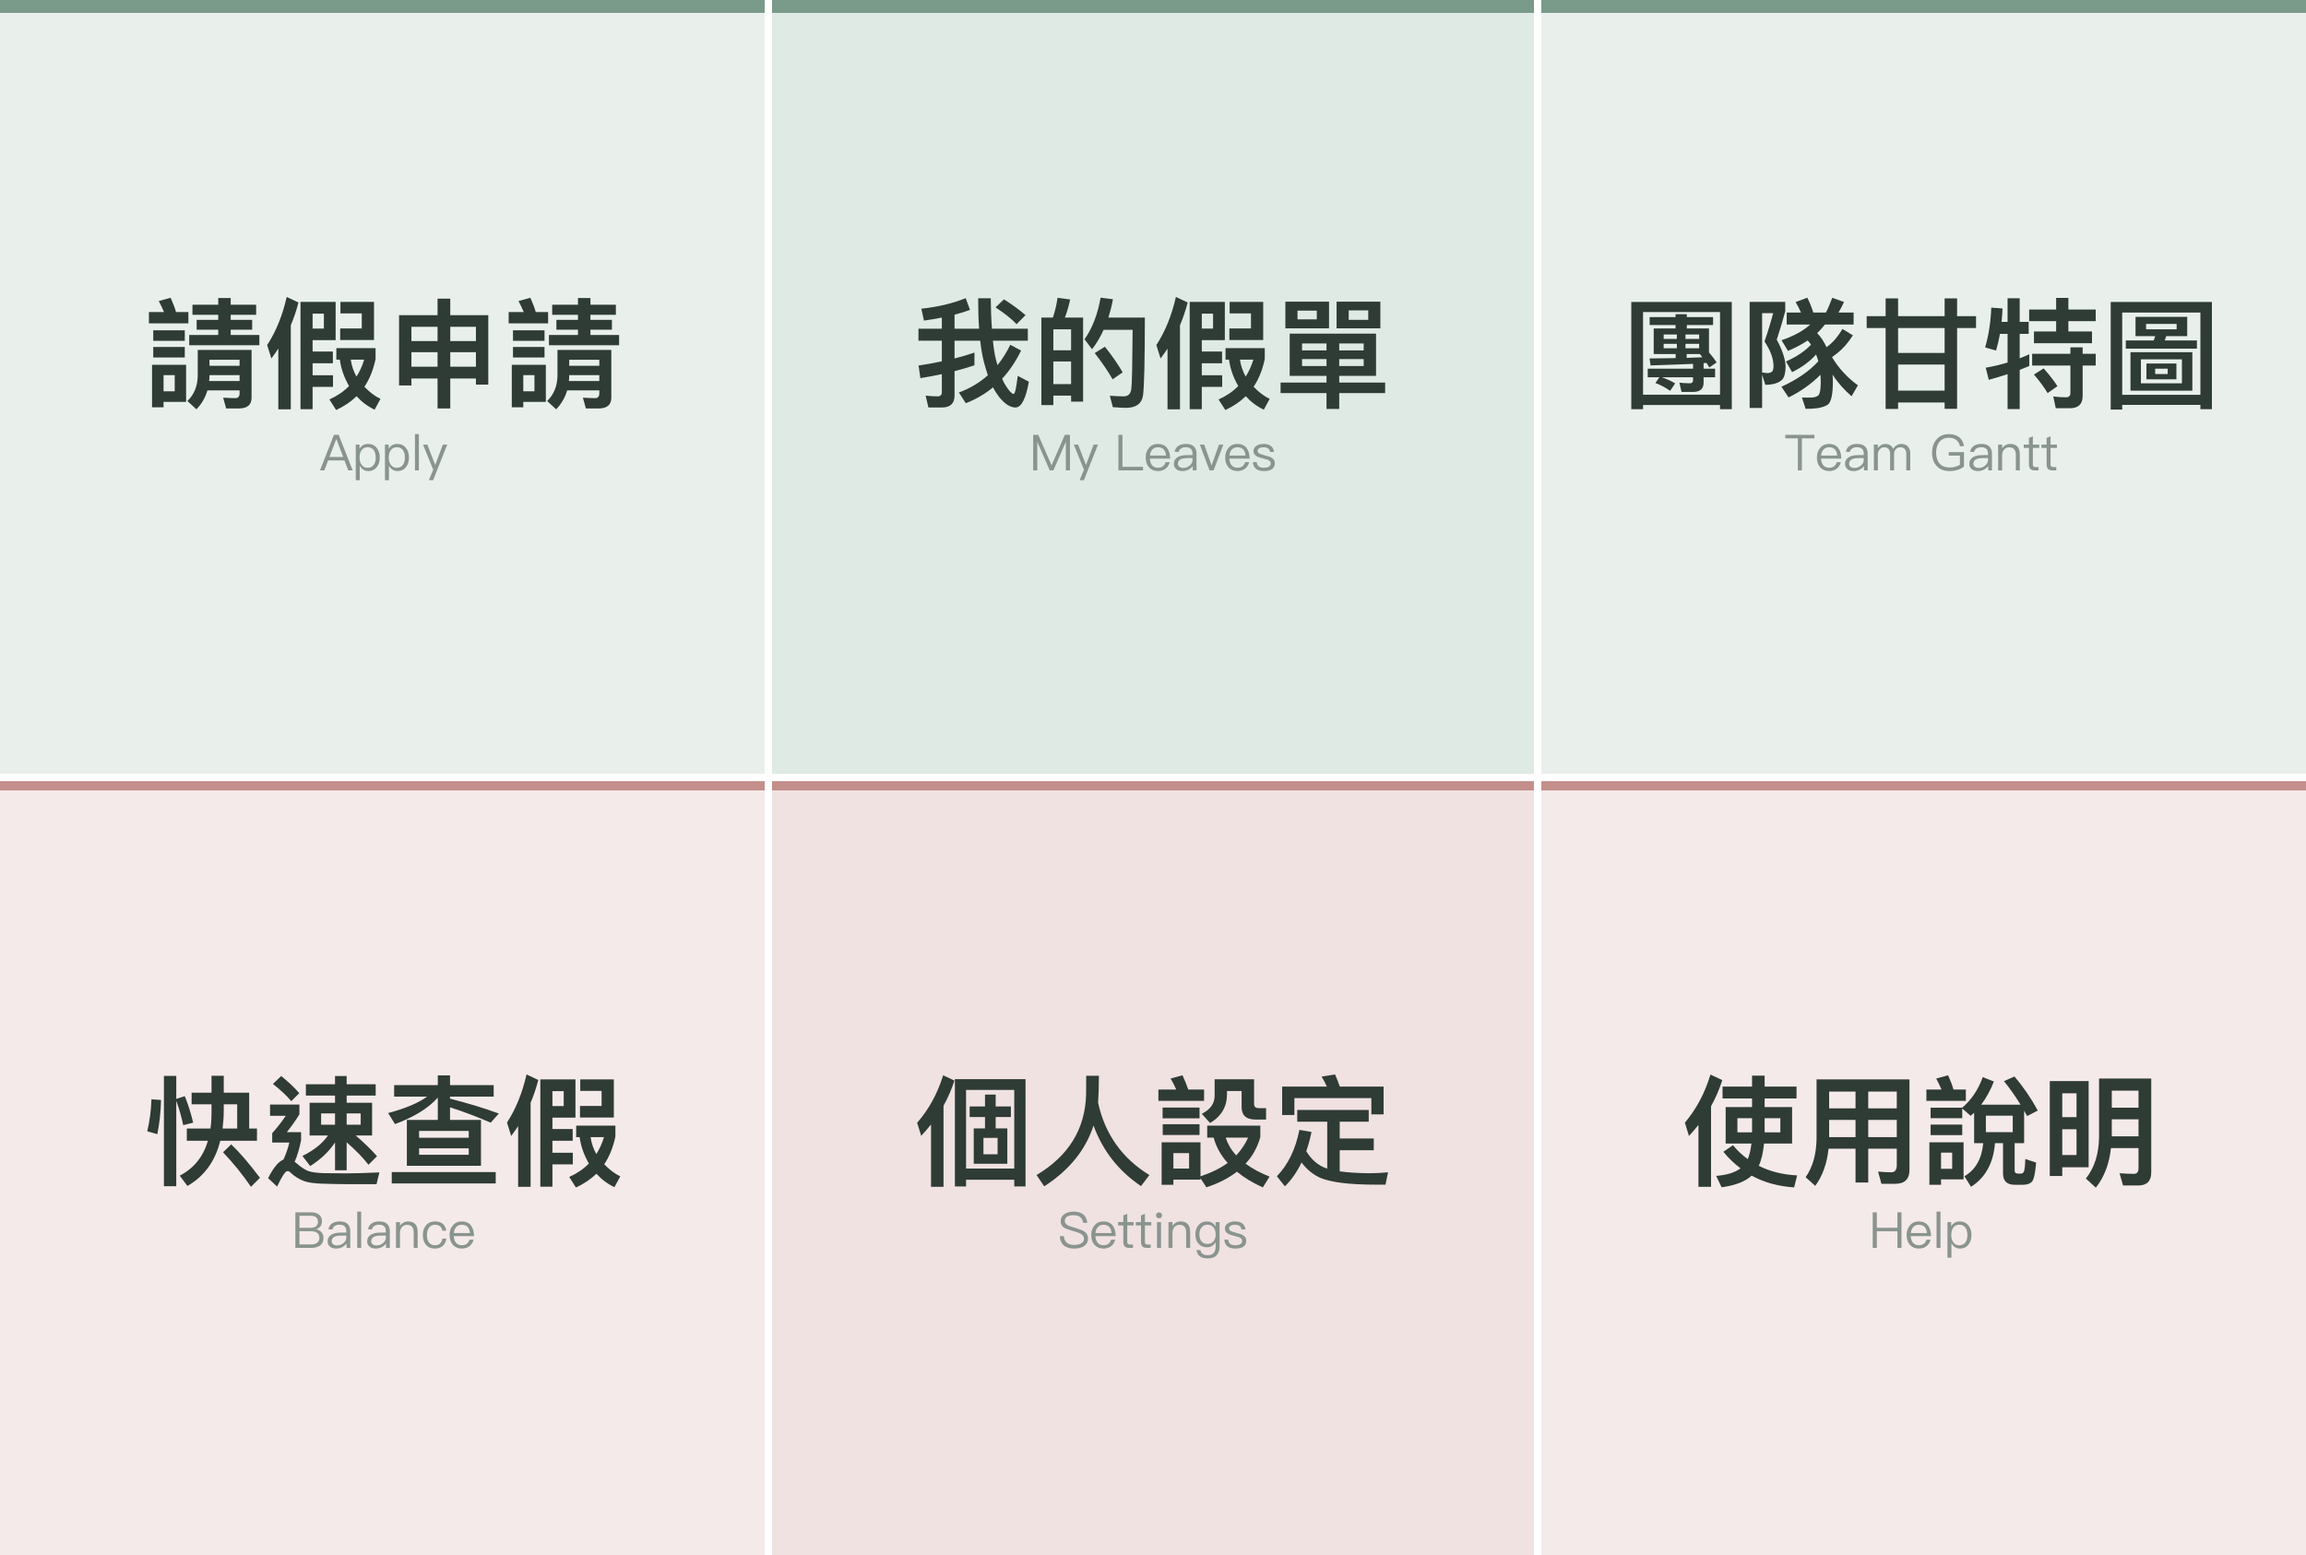
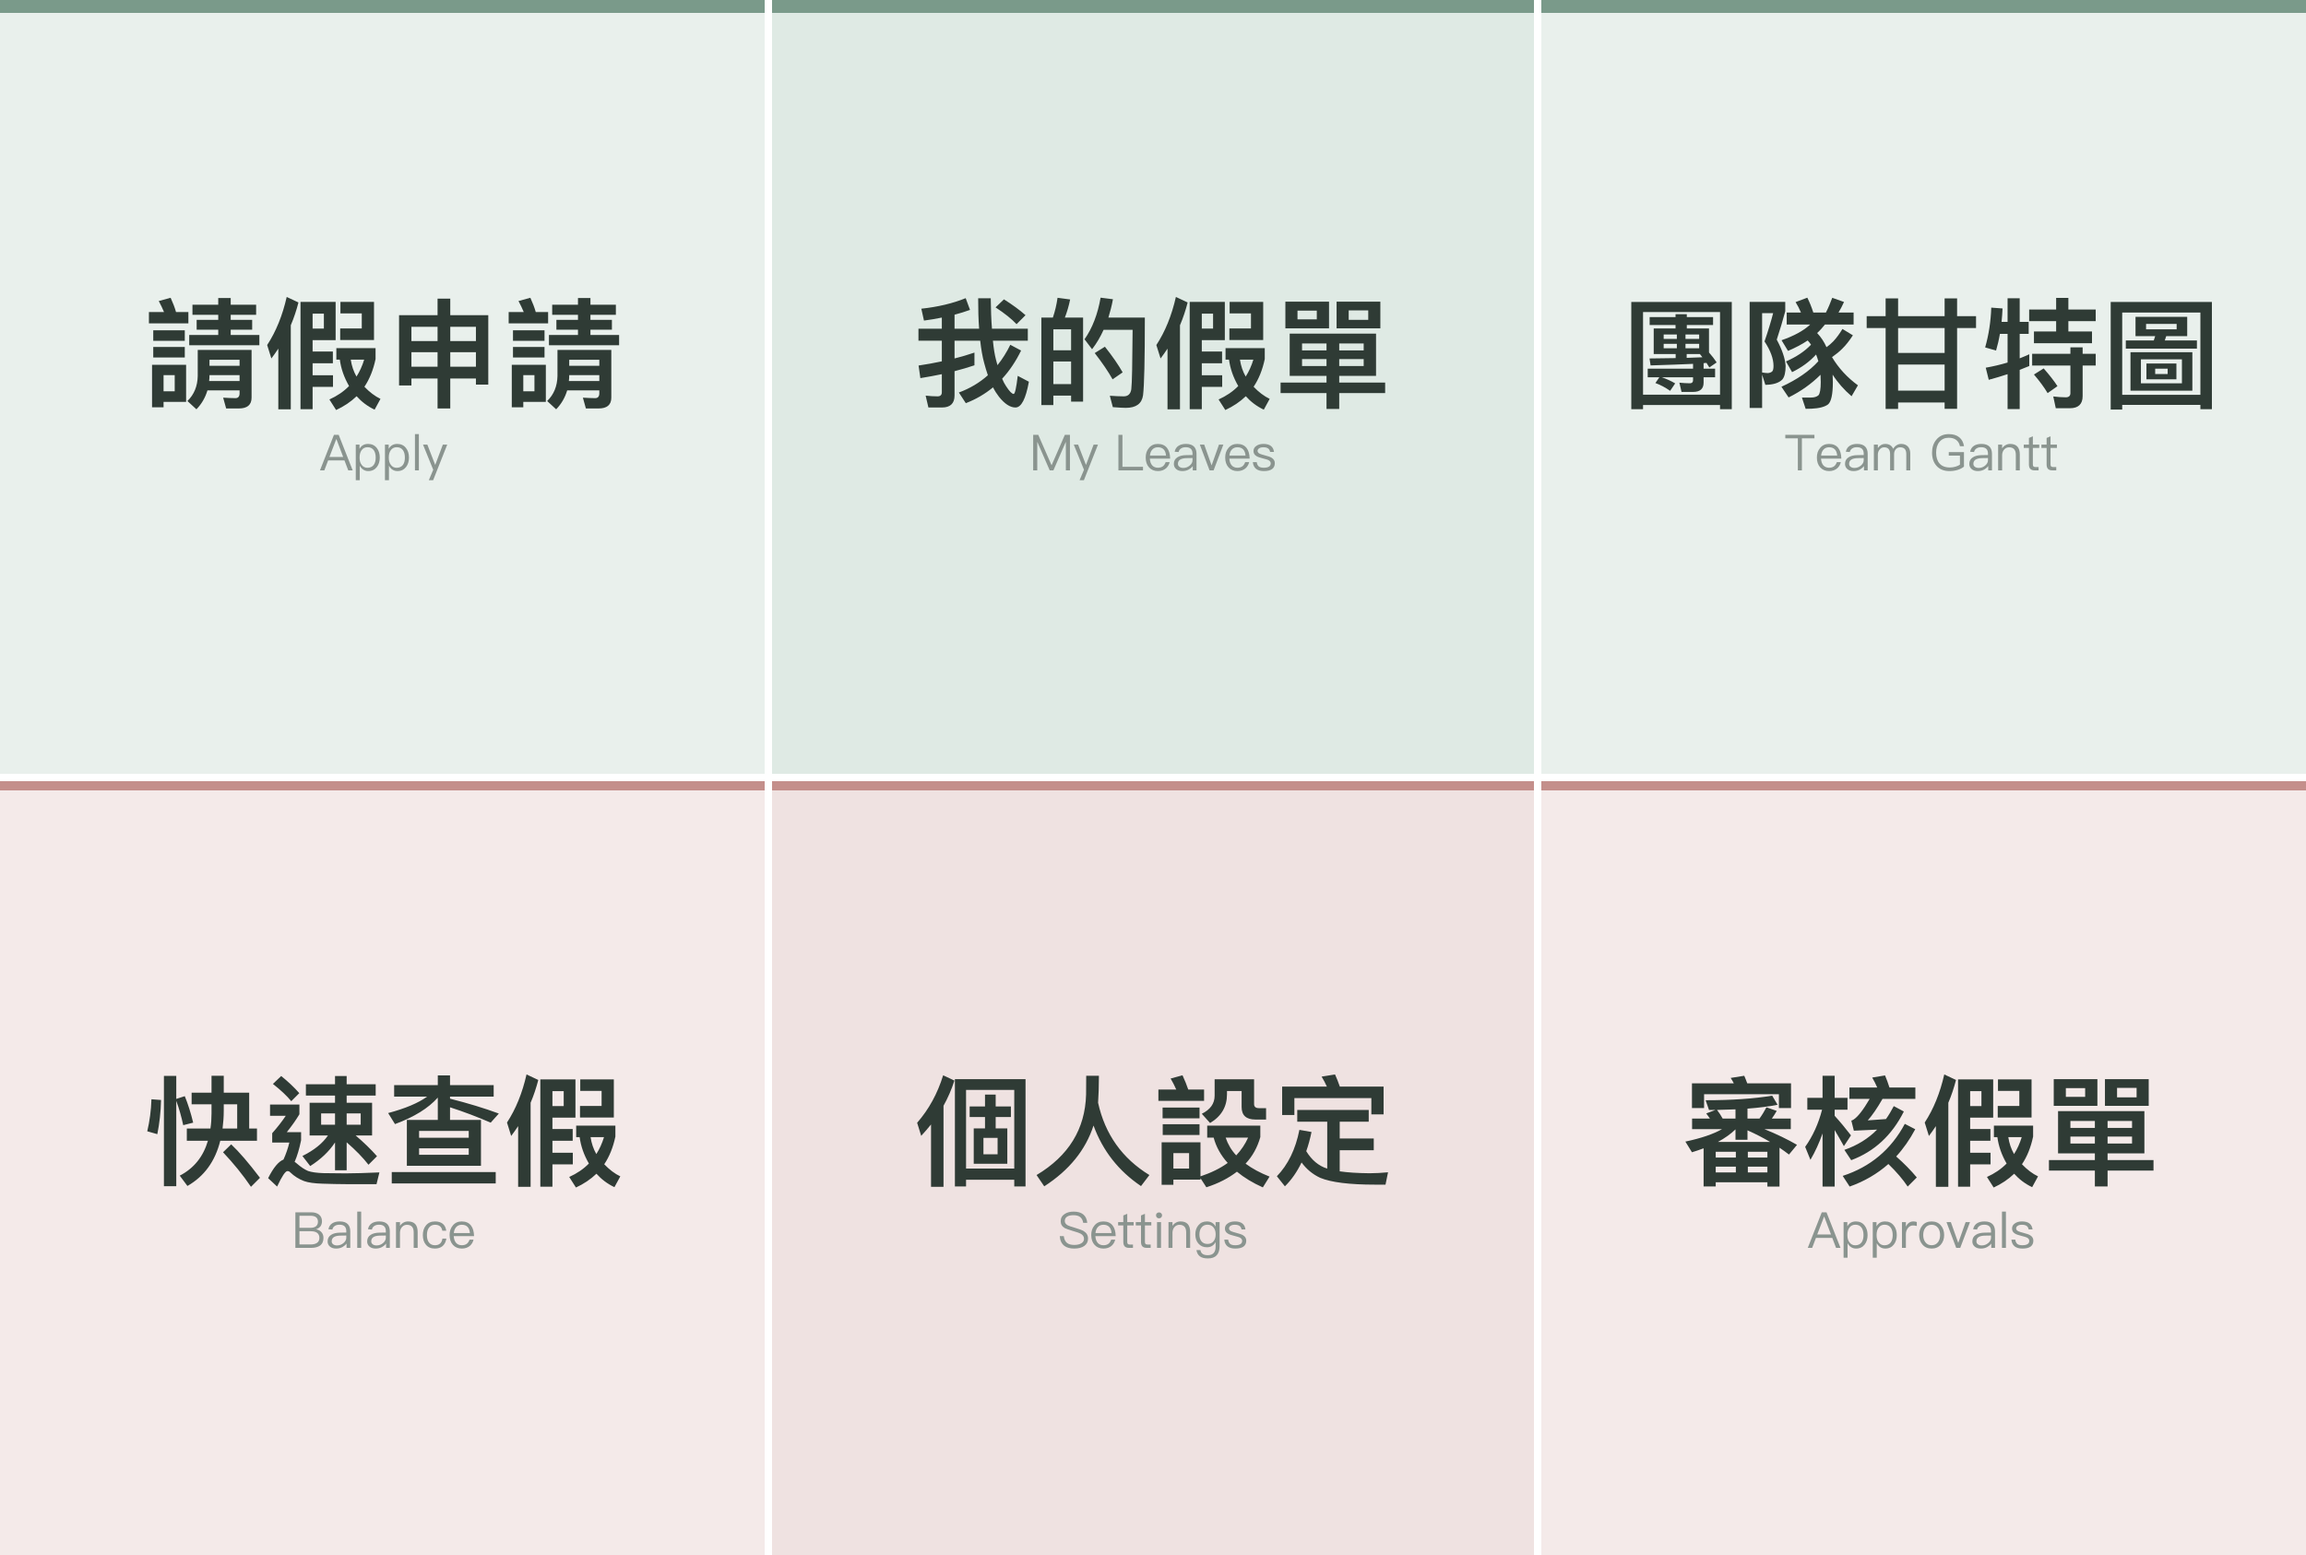
feat: Rich Menu 右下改為「審核假單」連到 /admin/approvals
原「使用說明」(送 bot「說明」訊息) 改成 LIFF uri 連到審核頁。
同步更新佔位選單圖。選單已透過 setup script 套用上線。

Changed region(s): [[0.7176, 0.6785, 0.936, 0.8019]]

diff --git a/scripts/setup-line-richmenu.ts b/scripts/setup-line-richmenu.ts
@@ -4,8 +4,8 @@
  * 執行：  npx tsx scripts/setup-line-richmenu.ts
  * 需環境變數：LINE_CHANNEL_ACCESS_TOKEN、NEXT_PUBLIC_LIFF_ID
  *
- * 選單為 2 列 × 3 欄：上排走 LIFF 網頁（點了在 LINE 內開、自動登入），
- * 下排「快速查假 / 使用說明」沿用現有 bot webhook 指令（type: message）。
+ * 選單為 2 列 × 3 欄：多數格走 LIFF 網頁（點了在 LINE 內開、自動登入），
+ * 「快速查假」沿用現有 bot webhook 指令（type: message，回覆各假別餘額）。
  * 選單圖在 scripts/richmenu.png（佔位圖，正式上線可換設計稿，座標不變）。
  */
 import { readFile } from "fs/promises"
@@ -32,7 +32,7 @@ const richMenu = {
     // 下排：沿用現有 bot 指令
     { bounds: { x: 0, y: 843, width: 833, height: 843 }, action: { type: "message", label: "快速查假", text: "查假" } },
     { bounds: { x: 833, y: 843, width: 834, height: 843 }, action: { type: "uri", label: "個人設定", uri: liffUrl("/settings") } },
-    { bounds: { x: 1667, y: 843, width: 833, height: 843 }, action: { type: "message", label: "使用說明", text: "說明" } },
+    { bounds: { x: 1667, y: 843, width: 833, height: 843 }, action: { type: "uri", label: "審核假單", uri: liffUrl("/admin/approvals") } },
   ],
 }
 
